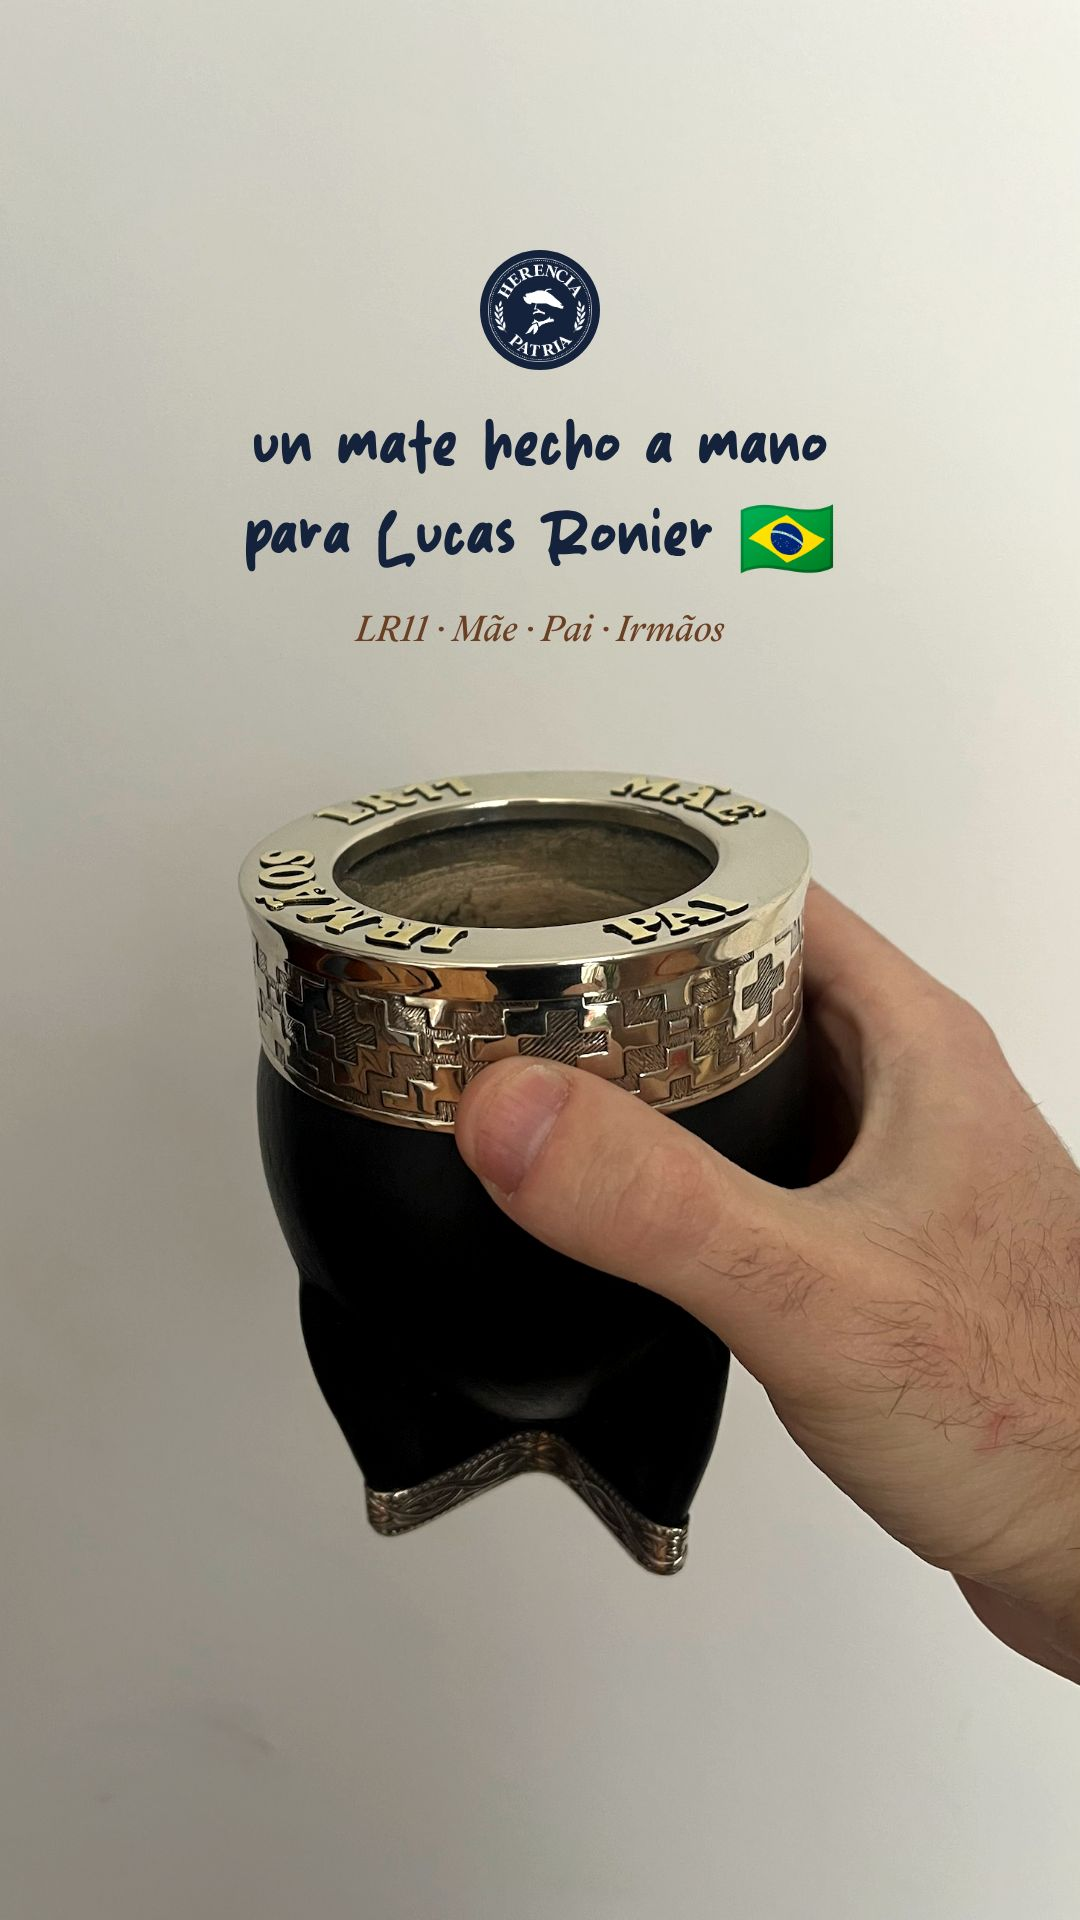
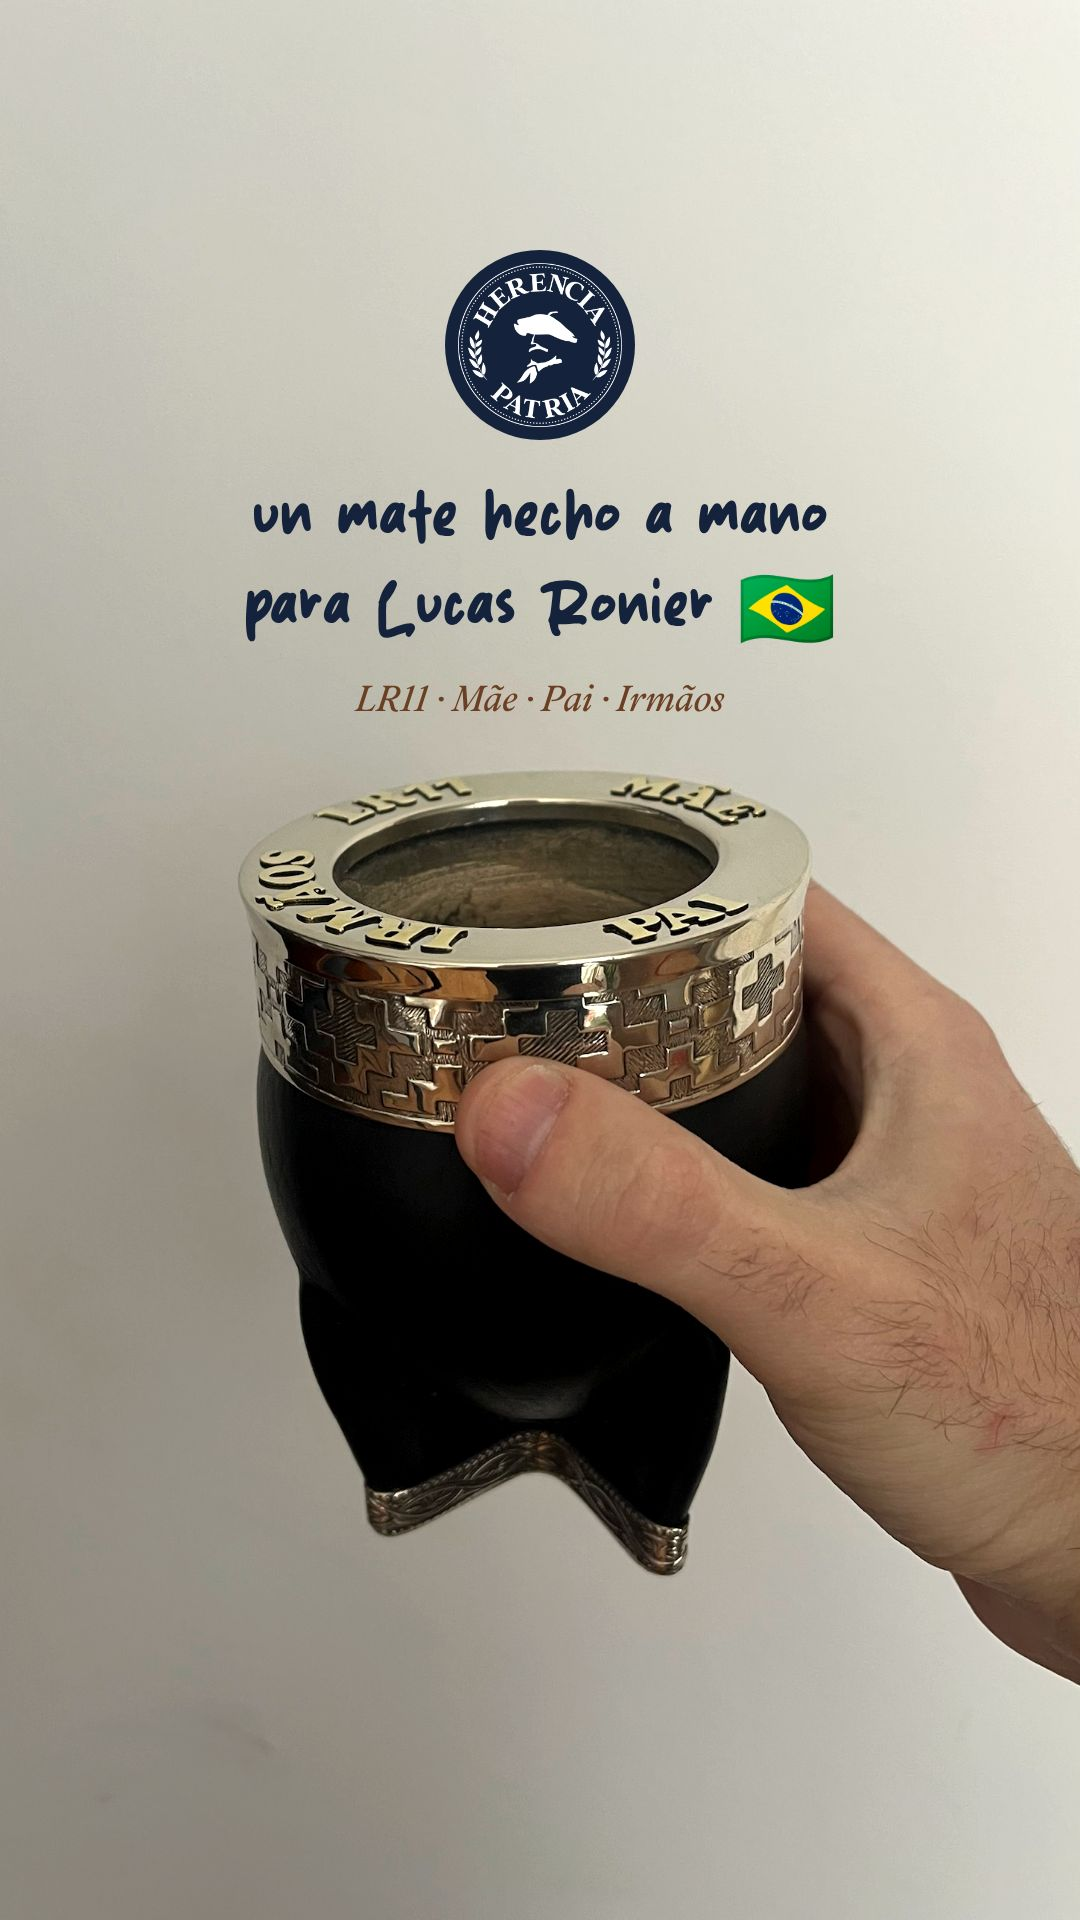
Historia Lucas Ronier: sello más grande (190 px)
Claude-Session: https://claude.ai/code/session_012H3xPSmbqKoMmc2aK7okNH

Changed region(s): [[0.2139, 0.125, 0.7944, 0.375]]

diff --git a/src/HerenciaPatria/HistoriaDedicada.tsx b/src/HerenciaPatria/HistoriaDedicada.tsx
@@ -14,7 +14,7 @@ export const HistoriaDedicada: React.FC<{
   // Desplazamiento vertical de la foto (px del cuadro), para dar aire arriba.
   readonly bajar?: number;
 }> = ({ src, frase, grabado, bajar = 0 }) => {
-  const sello = 120;
+  const sello = 190;
   return (
     <AbsoluteFill style={{ backgroundColor: colors.crema }}>
       <Img
